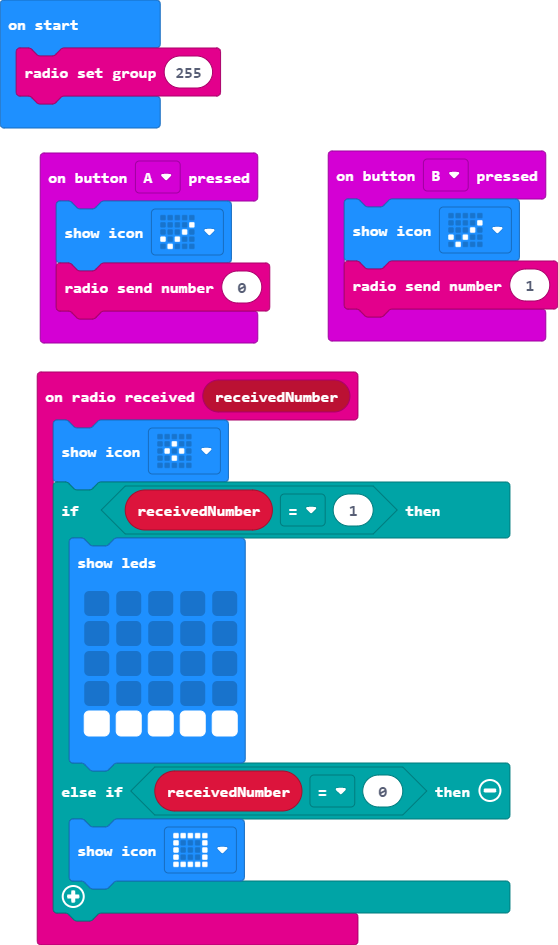
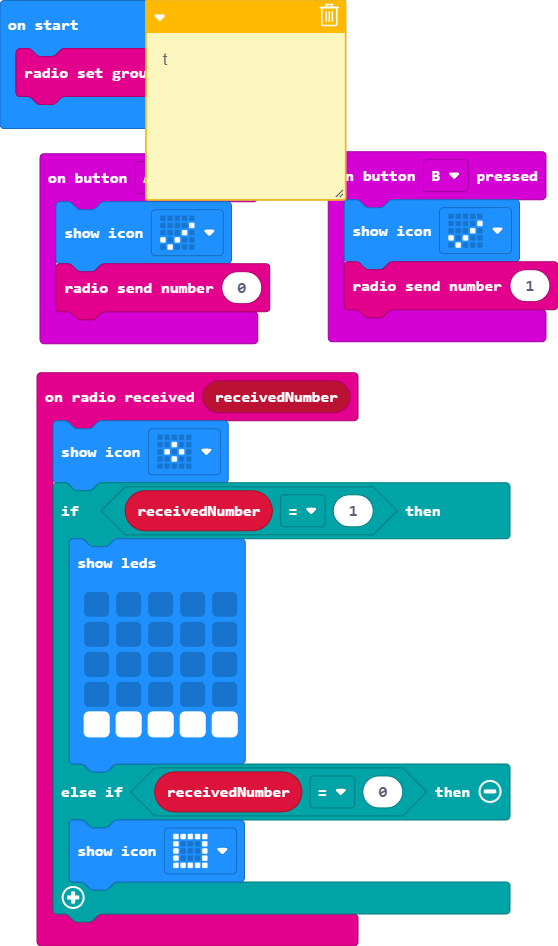
Update main.blocks, main.ts

diff --git a/main.ts b/main.ts
@@ -20,4 +20,7 @@ input.onButtonPressed(Button.B, function () {
     basic.showIcon(IconNames.Yes)
     radio.sendNumber(1)
 })
+/**
+ * t
+ */
 radio.setGroup(255)
